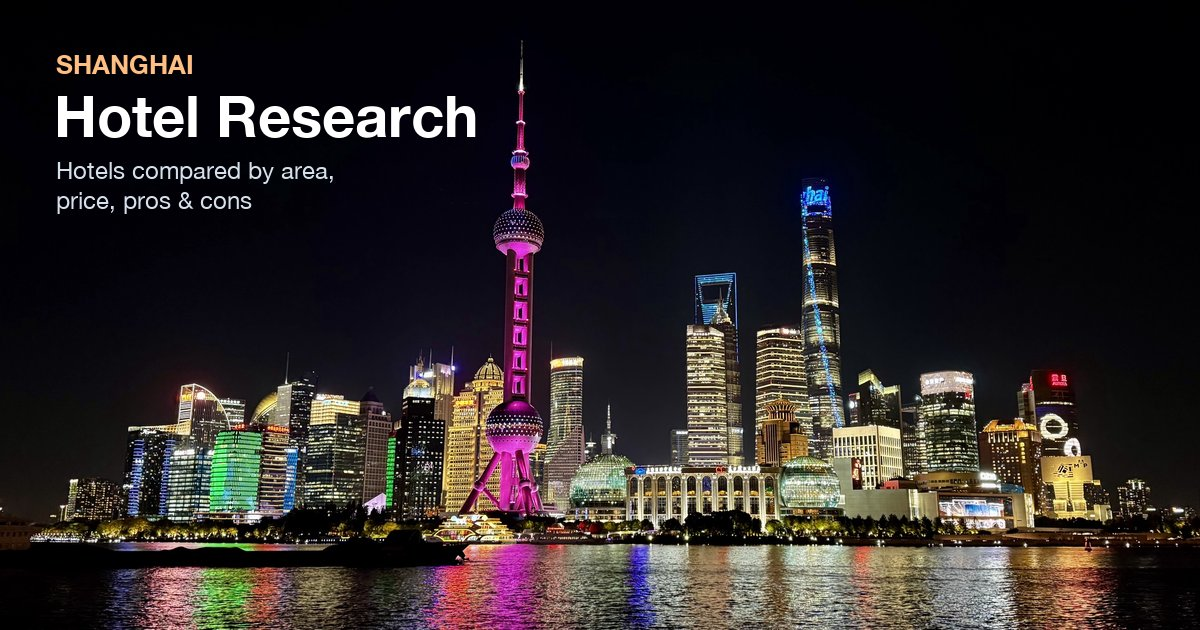
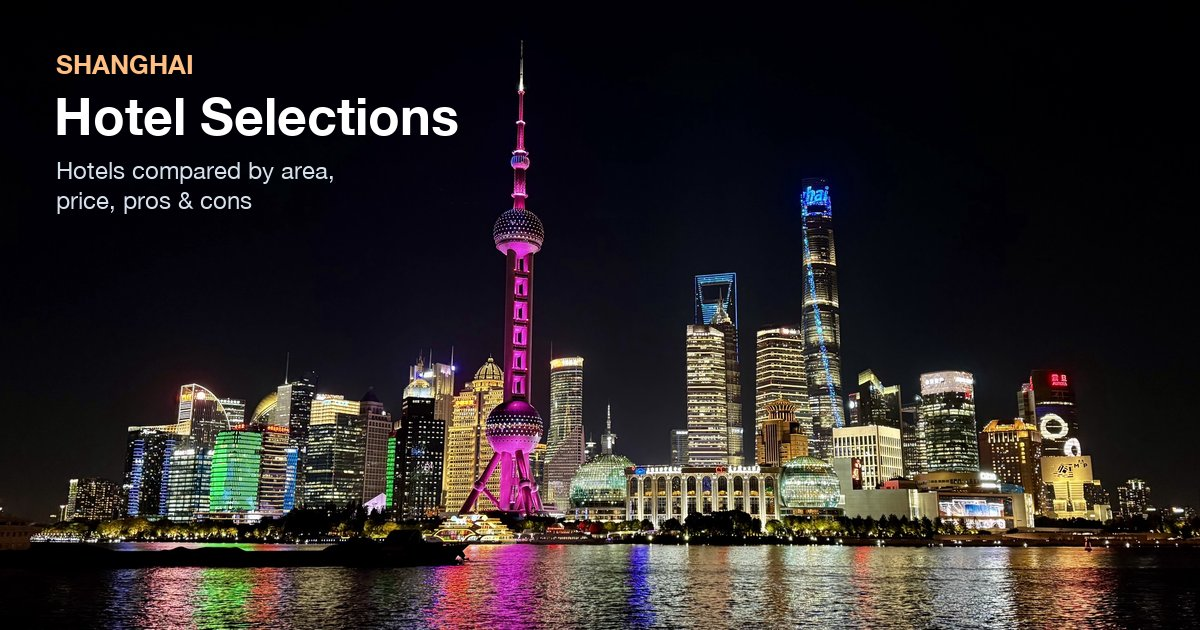
Rename Shanghai page to Hotel Selections

Changed region(s): [[0.0308, 0.1508, 0.4008, 0.2413]]

diff --git a/china/shanghai-hotels.html b/china/shanghai-hotels.html
@@ -3,8 +3,8 @@
 <head>
 <meta charset="UTF-8">
 <meta name="viewport" content="width=device-width, initial-scale=1.0">
-<title>Shanghai Hotel Research — 21 Properties (Handover Pack)</title>
-<meta property="og:title" content="Shanghai Hotel Research — 21 Properties">
+<title>Shanghai Hotel Selections — 21 Properties (Handover Pack)</title>
+<meta property="og:title" content="Shanghai Hotel Selections — 21 Properties">
 <meta property="og:description" content="21 Shanghai hotels compared by area, price, pros and cons.">
 <meta property="og:image" content="https://gseng-resource.github.io/wanderlust/assets/shanghai.jpg">
 <meta property="og:image:width" content="1200">
@@ -63,7 +63,7 @@
 </head>
 <body>
 <header class="top"><div class="wrap">
-  <h1>Shanghai Hotel Research — 21 Properties</h1>
+  <h1>Shanghai Hotel Selections — 21 Properties</h1>
   <div class="sub">Session handover pack · Compiled 2026-09-28 · All details extracted from the linked Trip.com property pages (review feeds, policies, amenities) and standard Shanghai geography for the 2 km attraction radii.</div>
   <a class="jump" href="#filters" target="_self">Filter hotels ↓</a>
 </div></header>

diff --git a/index.html b/index.html
@@ -83,7 +83,7 @@
   <div class="list">
     <a class="card" href="china/shanghai-hotels.html">
       <img src="assets/shanghai.jpg" alt="">
-      <div><div class="title">Shanghai Hotel Research</div><div class="desc">21 hotels compared by area, price, pros and cons</div></div>
+      <div><div class="title">Shanghai Hotel Selections</div><div class="desc">21 hotels compared by area, price, pros and cons</div></div>
       <span class="arrow">›</span>
     </a>
   </div>

diff --git a/README.md b/README.md
@@ -8,7 +8,7 @@ Personal travel guides and tools, published with GitHub Pages at
 ```
 index.html        Home page linking to everything below
 japan/            Tokyo shopping guide, Osaka navigator
-china/            Shanghai hotel research
+china/            Shanghai hotel selections
 singapore/        Singapore family guide
 tools/            Itinerary prompt generator
 assets/           Images used for link previews and the home page
